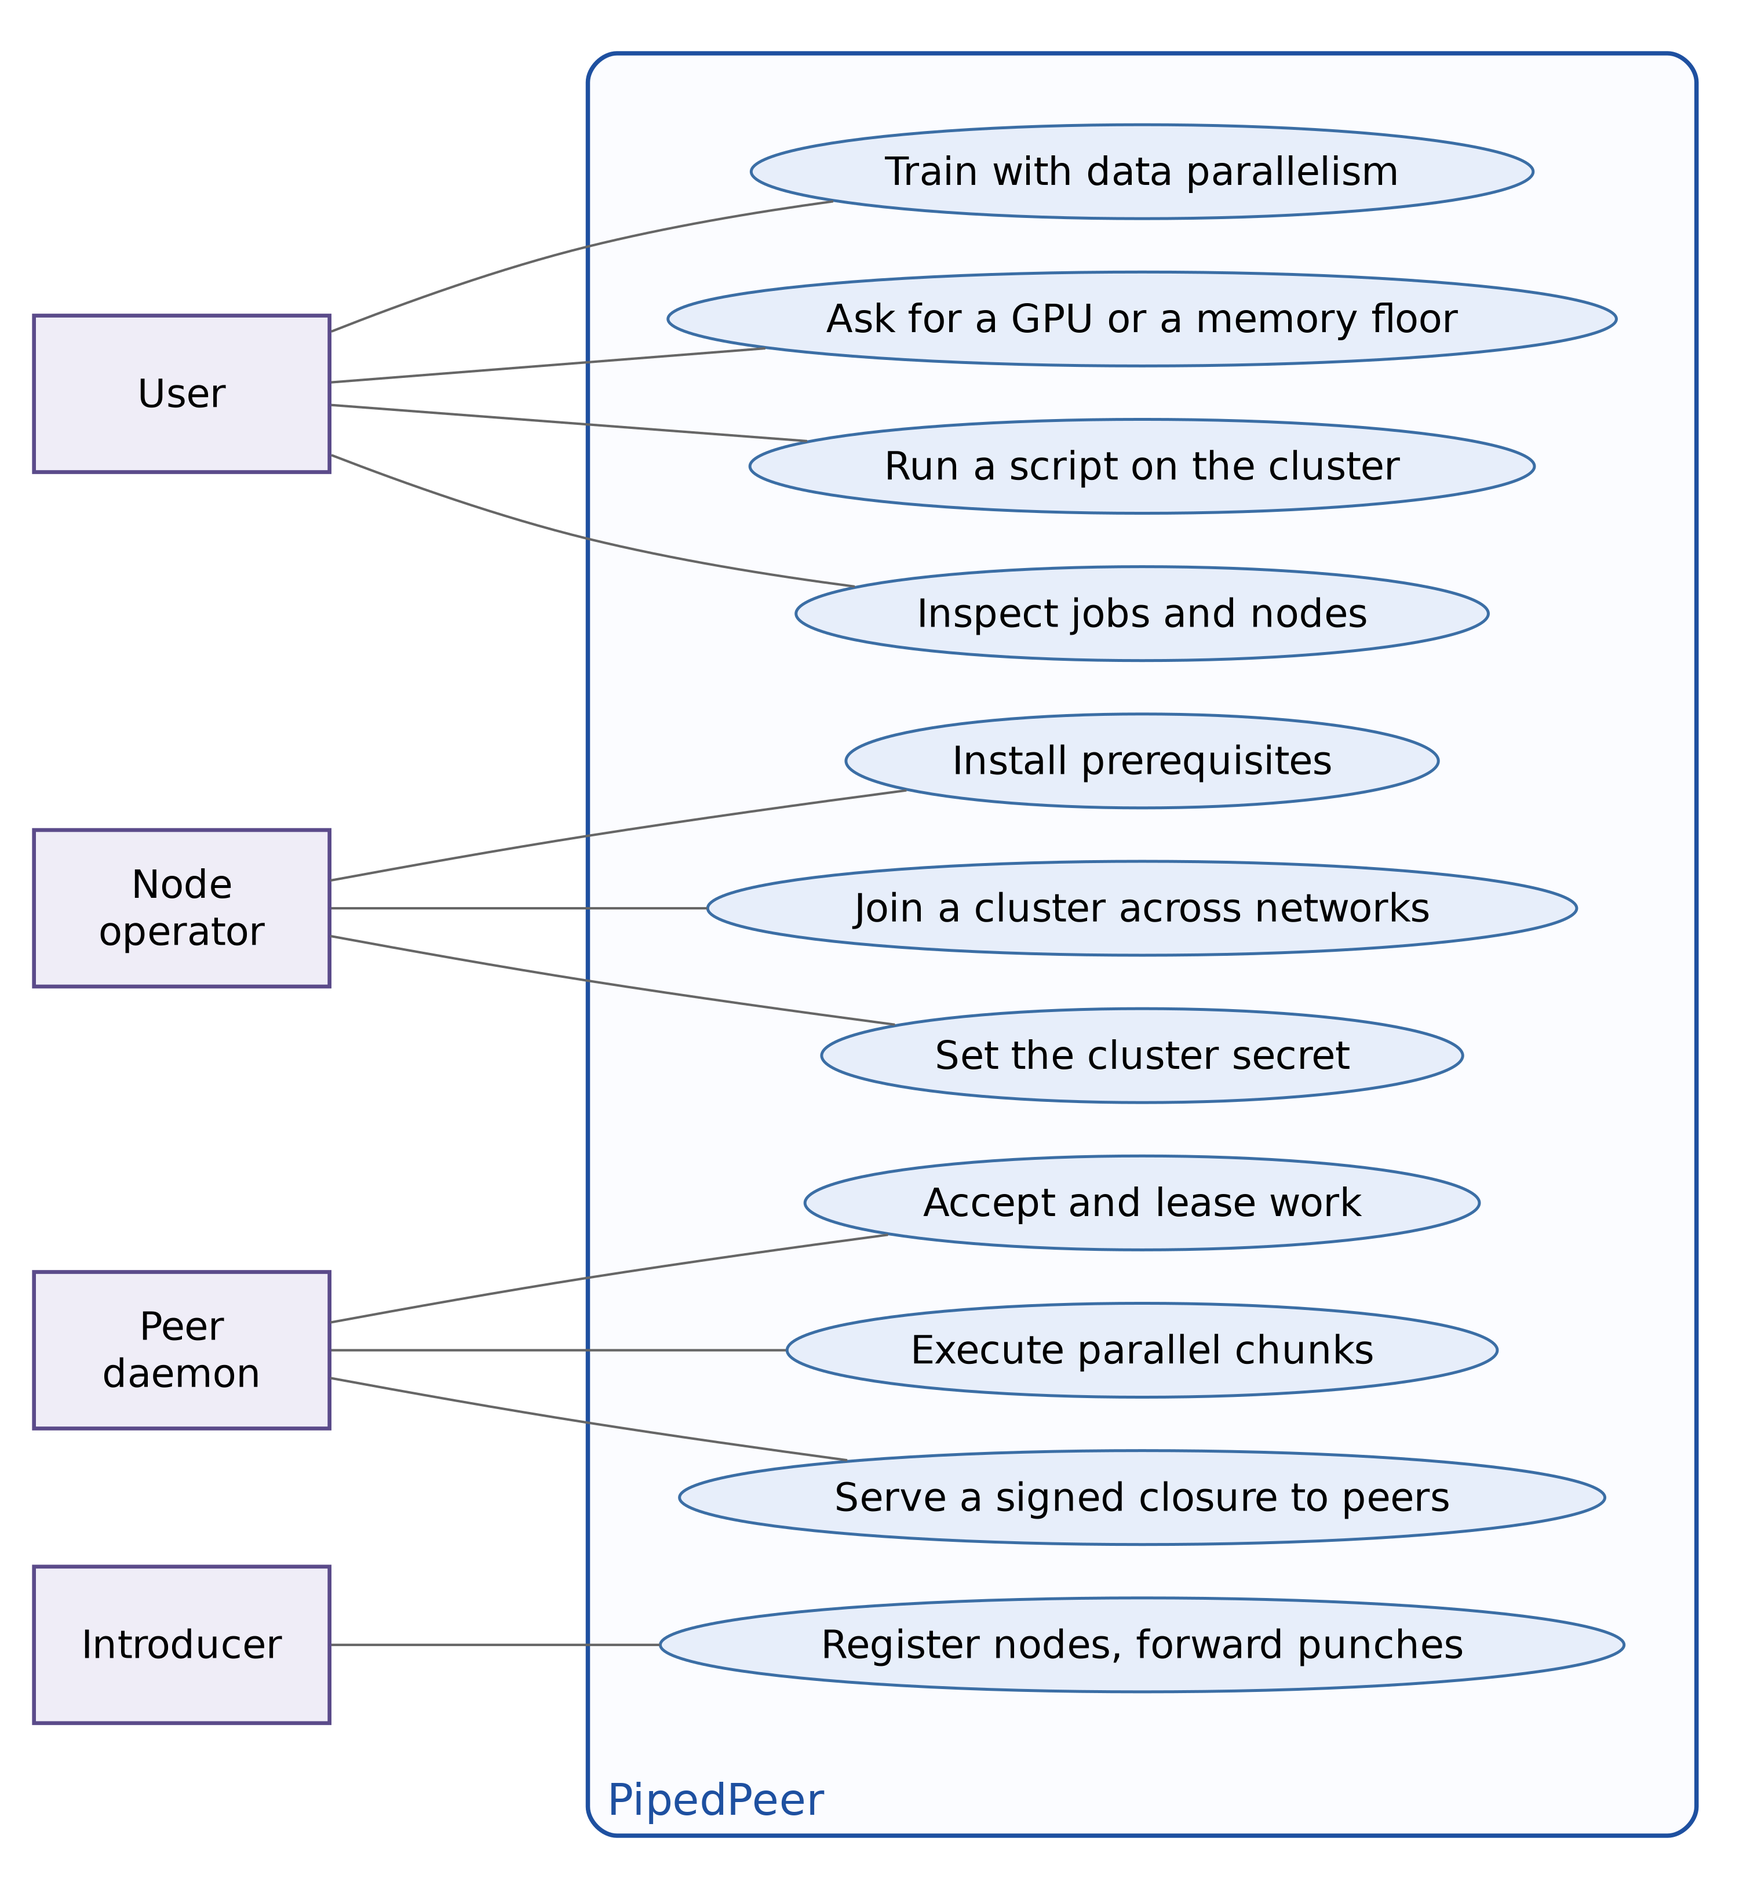
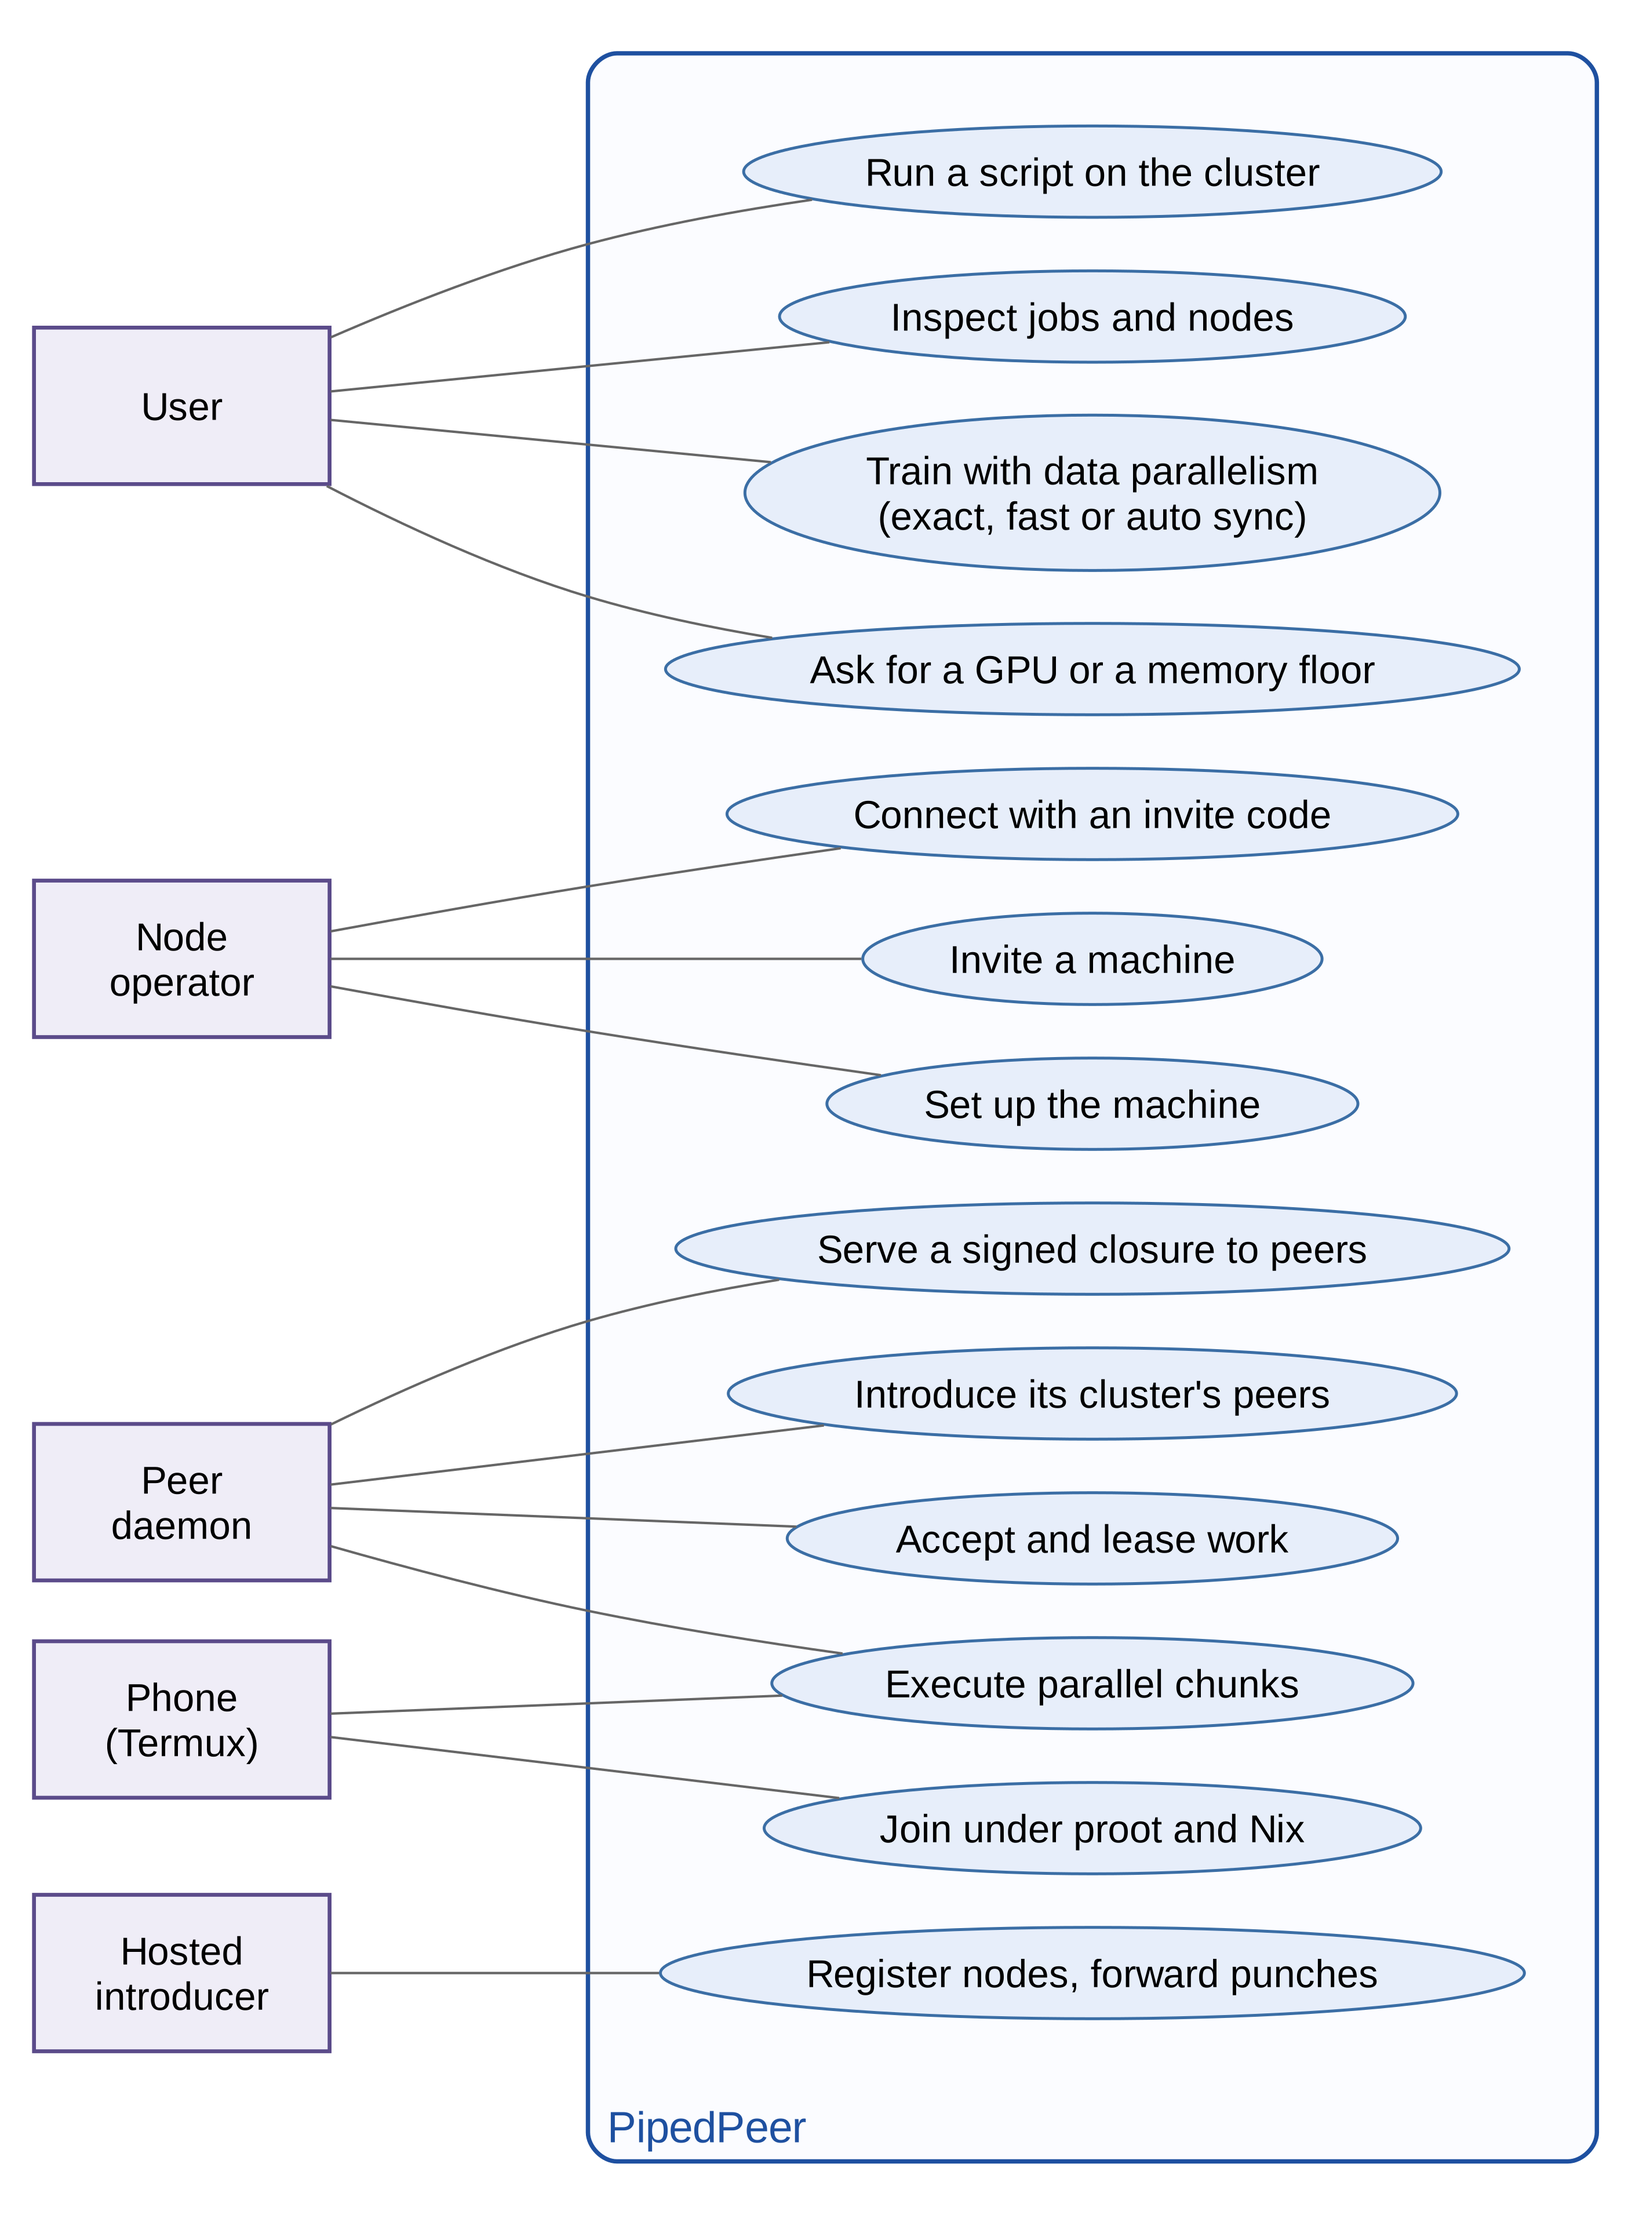
Redraw the figures that no longer matched the system; name guide and mentor
13 of 21 figures were last drawn on 2026-10-11 and showed removed or old
parts: the NATS registry (3.2, 4.3), ports 384xx (4.1), an ECDSA
certificate and "22 routes" (4.2), set-the-secret instead of invite and
connect (3.4), no phones (3.1, 4.7), a blocking closure send (4.6), no
DiLoCo or int8 (4.10). Phones are drawn as taking chunks only. 5.2 is
regenerated from results.json.

Guide is Dr. Rupali Sawant; the mentor, Dayanand Ambawade, is thanked in
the acknowledgments (title still to fill, marked FILL-AT-SUBMISSION).

diff --git a/docs/report/main.tex b/docs/report/main.tex
@@ -102,7 +102,8 @@
 \newcommand{\uidtwo}{2023300264}
 \newcommand{\uidthree}{2023300072}
 
-\newcommand{\guidename}{Prof. Rupali Sawant}
+\newcommand{\guidename}{Dr. Rupali Sawant}
+\newcommand{\mentorname}{Dayanand Ambawade}% FILL-AT-SUBMISSION: mentor's title (Dr./Prof.)
 
 \newcommand{\projecttitle}{PipedPeer: Zero-Configuration Distributed Computing via Recursive, Decentralised  Coordination}
 
@@ -662,7 +663,8 @@ from a Nix environment) and
     and places the job; the worker admits it, caches the closure and runs it
     sandboxed under a memory ceiling. Both roles are the same binary. Peers on
     other networks are reached over direct QUIC links that an introducer helps
-    establish but never carries.}
+    establish but never carries; every daemon is an introducer for its own
+    cluster. Phones take parallel chunks under \texttt{proot} and Nix.}
     \label{fig:architecture}
 \end{figure}
 
@@ -721,8 +723,8 @@ of nodes.
 \begin{figure}[H]
     \centering
     \includegraphics[width=0.92\textwidth]{\figpath{fig_3.2_dfd_level0.png}}
-    \caption{Level 0 DFD --- context diagram. The introducer and the registry are
-    dashed because the system works without them.}
+    \caption{Level 0 DFD --- context diagram. The introducer is dashed because
+    the system works without it on one network.}
     \label{fig:dfd0}
 \end{figure}
 
@@ -763,8 +765,9 @@ identity and trust store (node key, pinned certificates, trusted Nix keys).
     \centering
     \includegraphics[width=0.92\textwidth]{\figpath{fig_3.4_use_case.png}}
     \caption{Use cases. A peer daemon is an actor in its own right, because
-    every node serves closures and executes chunks for others; the introducer
-    registers nodes and forwards punch requests.}
+    every node serves closures, executes chunks and introduces its cluster's
+    peers; a phone executes chunks; a hosted introducer only registers nodes
+    and forwards punch requests.}
     \label{fig:usecase}
 \end{figure}
 
@@ -989,8 +992,8 @@ cover.
     \centering
     \includegraphics[width=0.95\textwidth]{\figpath{fig_4.2_trust.png}}
     \caption{The three layers of trust: a shared secret on every API route,
-    pinned TLS (or QUIC across networks) on the wire, and the node key that both
-    authenticates links and signs closures.}
+    pinned TLS (or QUIC across networks) on the wire, and the node key that
+    makes the certificate, authenticates links and signs closures.}
     \label{fig:trust}
 \end{figure}
 
@@ -1266,7 +1269,7 @@ which is the default when a script imports torch, unless \texttt{-{}-gpu off}
     \includegraphics[width=0.92\textwidth]{\figpath{fig_4.6_closure_cache.png}}
     \caption{The store path is the cluster-wide cache key. Most submissions ship
     no environment at all, and a related environment ships only the store paths
-    the receiver lacks.}
+    the receiver lacks. The upload never waits more than 60\,s for a slow peer.}
     \label{fig:closure}
 \end{figure}
 
@@ -1355,7 +1358,8 @@ returns it and the client prints why the peer took no work.
     \caption{What the job can and cannot see. The absences are as deliberate as
     the mounts. Shared memory is mounted world-writable because Python's
     \texttt{multiprocessing} requires it, and the driver libraries are bound
-    file by file so that the host C library cannot shadow the closure's.}
+    file by file so that the host C library cannot shadow the closure's. On a
+    phone, \texttt{proot} takes the place of \texttt{crun}.}
     \label{fig:sandbox}
 \end{figure}
 
@@ -1800,8 +1804,9 @@ torch gloo and NCCL back-ends were removed, so this channel is the only one.
 \begin{figure}[H]
     \centering
     \includegraphics[width=0.92\textwidth]{\figpath{fig_4.10_ddp.png}}
-    \caption{Gradient exchange over the daemon port. The lead daemon reduces the
-    sample-weighted gradients and returns one average.}
+    \caption{Synchronisation over the daemon port. The lead daemon averages by
+    samples and returns one average: int8 gradients every step in exact mode,
+    weights every $H$ steps in fast mode; auto switches to fast once.}
     \label{fig:ddp}
 \end{figure}
 
@@ -2376,8 +2381,8 @@ alongside the skip check and a never-slower pool benchmark.
 \begin{figure}[H]
     \centering
     \includegraphics[width=0.92\textwidth]{\figpath{fig_5.2_shim_overhead.png}}
-    \caption{Left: the parallel-map job of Table~\ref{tab:shimcost}, clean runs
-    only (failed-and-retried runs excluded).
+    \caption{Left: the declined parallel map of Table~\ref{tab:shimidle}; the
+    enabled side's cold first run is left out of its range.
     Right: interpreter start-up, with eager patching (August) and deferred
     patching (October).}
     \label{fig:resshim}

diff --git a/docs/diagrams/src/plots_results.py b/docs/diagrams/src/plots_results.py
@@ -67,18 +67,15 @@ def fig_closure_cache():
 
 
 def fig_shim_overhead():
-    """5.2 - Cost of leaving interception on when it decides not to distribute."""
-    # Runs whose log records an execution failure and a reschedule are not
-    # timings of the job; they are excluded and reported as a defect instead.
-    def clean(label, key):
-        out = []
-        for i, x in enumerate(M[key]["samples"]):
-            log = (BENCH / "raw" / f"{label}_run{i}.log").read_text()
-            if "Execution failed" not in log:
-                out.append(x["seconds"])
-        return out
-    offs, ons = clean("N7_shim_off", "n7_shim_off"), clean("N7_shim_on", "n7_shim_declines")
-    on, off = float(np.median(ons)), float(np.median(offs))
+    """5.2 - Cost of leaving interception on when it decides not to distribute.
+    Left: the declined 16-item map (N7, 12 October). Bars are the medians
+    results.json records over all five runs; the whiskers leave out the
+    enabled side's cold first run (its environment build), which is printed
+    instead, as Table tab:shimidle does."""
+    offs = [x["seconds"] for x in M["n7_shim_off"]["samples"]]
+    ons_all = [x["seconds"] for x in M["n7_shim_declines"]["samples"]]
+    cold, ons = ons_all[0], ons_all[1:]
+    on, off = M["n7_shim_declines"]["median_s"], M["n7_shim_off"]["median_s"]
     rng = [(min(offs), max(offs)), (min(ons), max(ons))]
     b3 = (BENCH / "raw" / "B3_shim_overhead.txt").read_text()
     before = float(re.search(r"ratio: ([0-9.]+)x", b3).group(1))
@@ -91,10 +88,12 @@ def fig_shim_overhead():
     for i, (lo, hi) in enumerate(rng):
         ax.plot([i, i], [lo, hi], color="#333333", linewidth=1.2)
     for i, v in enumerate([off, on]):
-        ax.text(i, v * 0.5, f"{v:.2f} s", ha="center", va="center", fontsize=15, bbox=dict(facecolor="white", edgecolor="none", pad=1.6))
+        ax.text(i, v * 0.5, f"{v:.3f} s", ha="center", va="center", fontsize=15, bbox=dict(facecolor="white", edgecolor="none", pad=1.6))
+    ax.text(1, max(on, off) * 1.12, f"+ one cold first run, {cold:.2f} s", ha="center",
+            fontsize=12, color="#555555")
     ax.set_ylabel("seconds, end to end"); ax.set_ylim(0, max(on, off) * 1.25)
     ax.grid(axis="y", alpha=0.25); ax.set_axisbelow(True)
-    ax.set_title(f"48-item map, one host; the shim distributed\n(clean runs: {len(offs)} off, {len(ons)} on; line: min-max)",
+    ax.set_title(f"16-item map the cost model declines\n(median of {len(offs)} runs each; line: min-max)",
                  fontsize=15, loc="left")
 
     # Startup tax before the lazy-patching fix (August, raw/B3) and now (O2).

diff --git a/docs/diagrams/src/plots_design.py b/docs/diagrams/src/plots_design.py
@@ -28,22 +28,23 @@ def fig_sequence():
         (0, 1, "run script.py", False),
         (1, 1, "scan imports, build closure", None),
         (1, 1, "estimate memory need", None),
+        (1, 1, "healthy peers, internet ones via forwarders", None),
         (1, 2, "accept (capacity check)", False),
         (2, 1, "lease granted", True),
         (1, 2, "commit lease", False),
         (1, 2, "which store paths are missing?", False),
         (2, 1, "the paths it lacks", True),
         (1, 2, "upload workspace and missing paths", False),
-        (2, 3, "push signed closure to peers", False),
+        (2, 3, "push signed closure (waits at most 60 s)", False),
         (1, 2, "open execution stream", False),
         (2, 2, "run in sandbox, memory capped", None),
         (2, 3, "parallel work, by measured speed", False),
         (3, 2, "partial results", True),
-        (2, 1, "stdout and stderr, line by line", True),
+        (2, 1, "stdout and stderr, as written", True),
         (2, 1, "changed files, deletion manifest", True),
         (1, 0, "results in the working directory", True),
     ]
-    fig, ax = plt.subplots(figsize=(9.2, 10.8))
+    fig, ax = plt.subplots(figsize=(9.2, 11.4))
     top, dy = 0.0, -0.74
     for i, a in enumerate(actors):
         ax.add_patch(FancyBboxPatch((x[i] - 1.32, top + 0.02), 2.64, 0.80,

diff --git a/docs/paper/paper.tex b/docs/paper/paper.tex
@@ -19,7 +19,7 @@
 \providecommand{\todo}[1]{\textcolor{red}{\textbf{[TODO: #1]}}}
 % Fields the authors fill before submission (red until filled).
 \newcommand{\fillin}[1]{\textcolor{red}{\textbf{[FILL: #1]}}}
-\newcommand{\guidename}{Rupali Sawant}
+\newcommand{\guidename}{Dr. Rupali Sawant}
 \newcommand{\guideemail}{rupali\_sawant@spit.ac.in}
 \usepackage{amsmath,amssymb,amsfonts}
 \usepackage{algorithmic}
@@ -187,7 +187,7 @@ introducer addresses. Every daemon is an introducer for its own cluster.
 \includegraphics[width=\columnwidth]{\figpath{fig_3.1_system_design.png}}
 \caption{System design. Both roles are the same binary; peers on other networks
 are reached over direct links that the introducer helps establish but never
-carries.}
+carries. Phones take parallel chunks under \texttt{proot} and Nix.}
 \label{fig:arch}
 \end{figure}
 

diff --git a/docs/report/acknowledgments.tex b/docs/report/acknowledgments.tex
@@ -1,7 +1,7 @@
 % Acknowledgments (black-book template acknowledgments.tex). Edit freely.
 \chapter*{Acknowledgments}
 \thispagestyle{empty}
-We express our sincere gratitude to our guide, \guidename, for the guidance and encouragement given throughout this project, and for the freedom we were given in shaping it.
+We express our sincere gratitude to our guide, \guidename, for the guidance and encouragement given throughout this project, and for the freedom we were given in shaping it. We are equally grateful to our mentor, \mentorname, for the advice and support given throughout the work.
 
 We thank our examiners for their advice, and \hodname, Head of the \department, and its staff for the facilities required to carry out this work.
 
